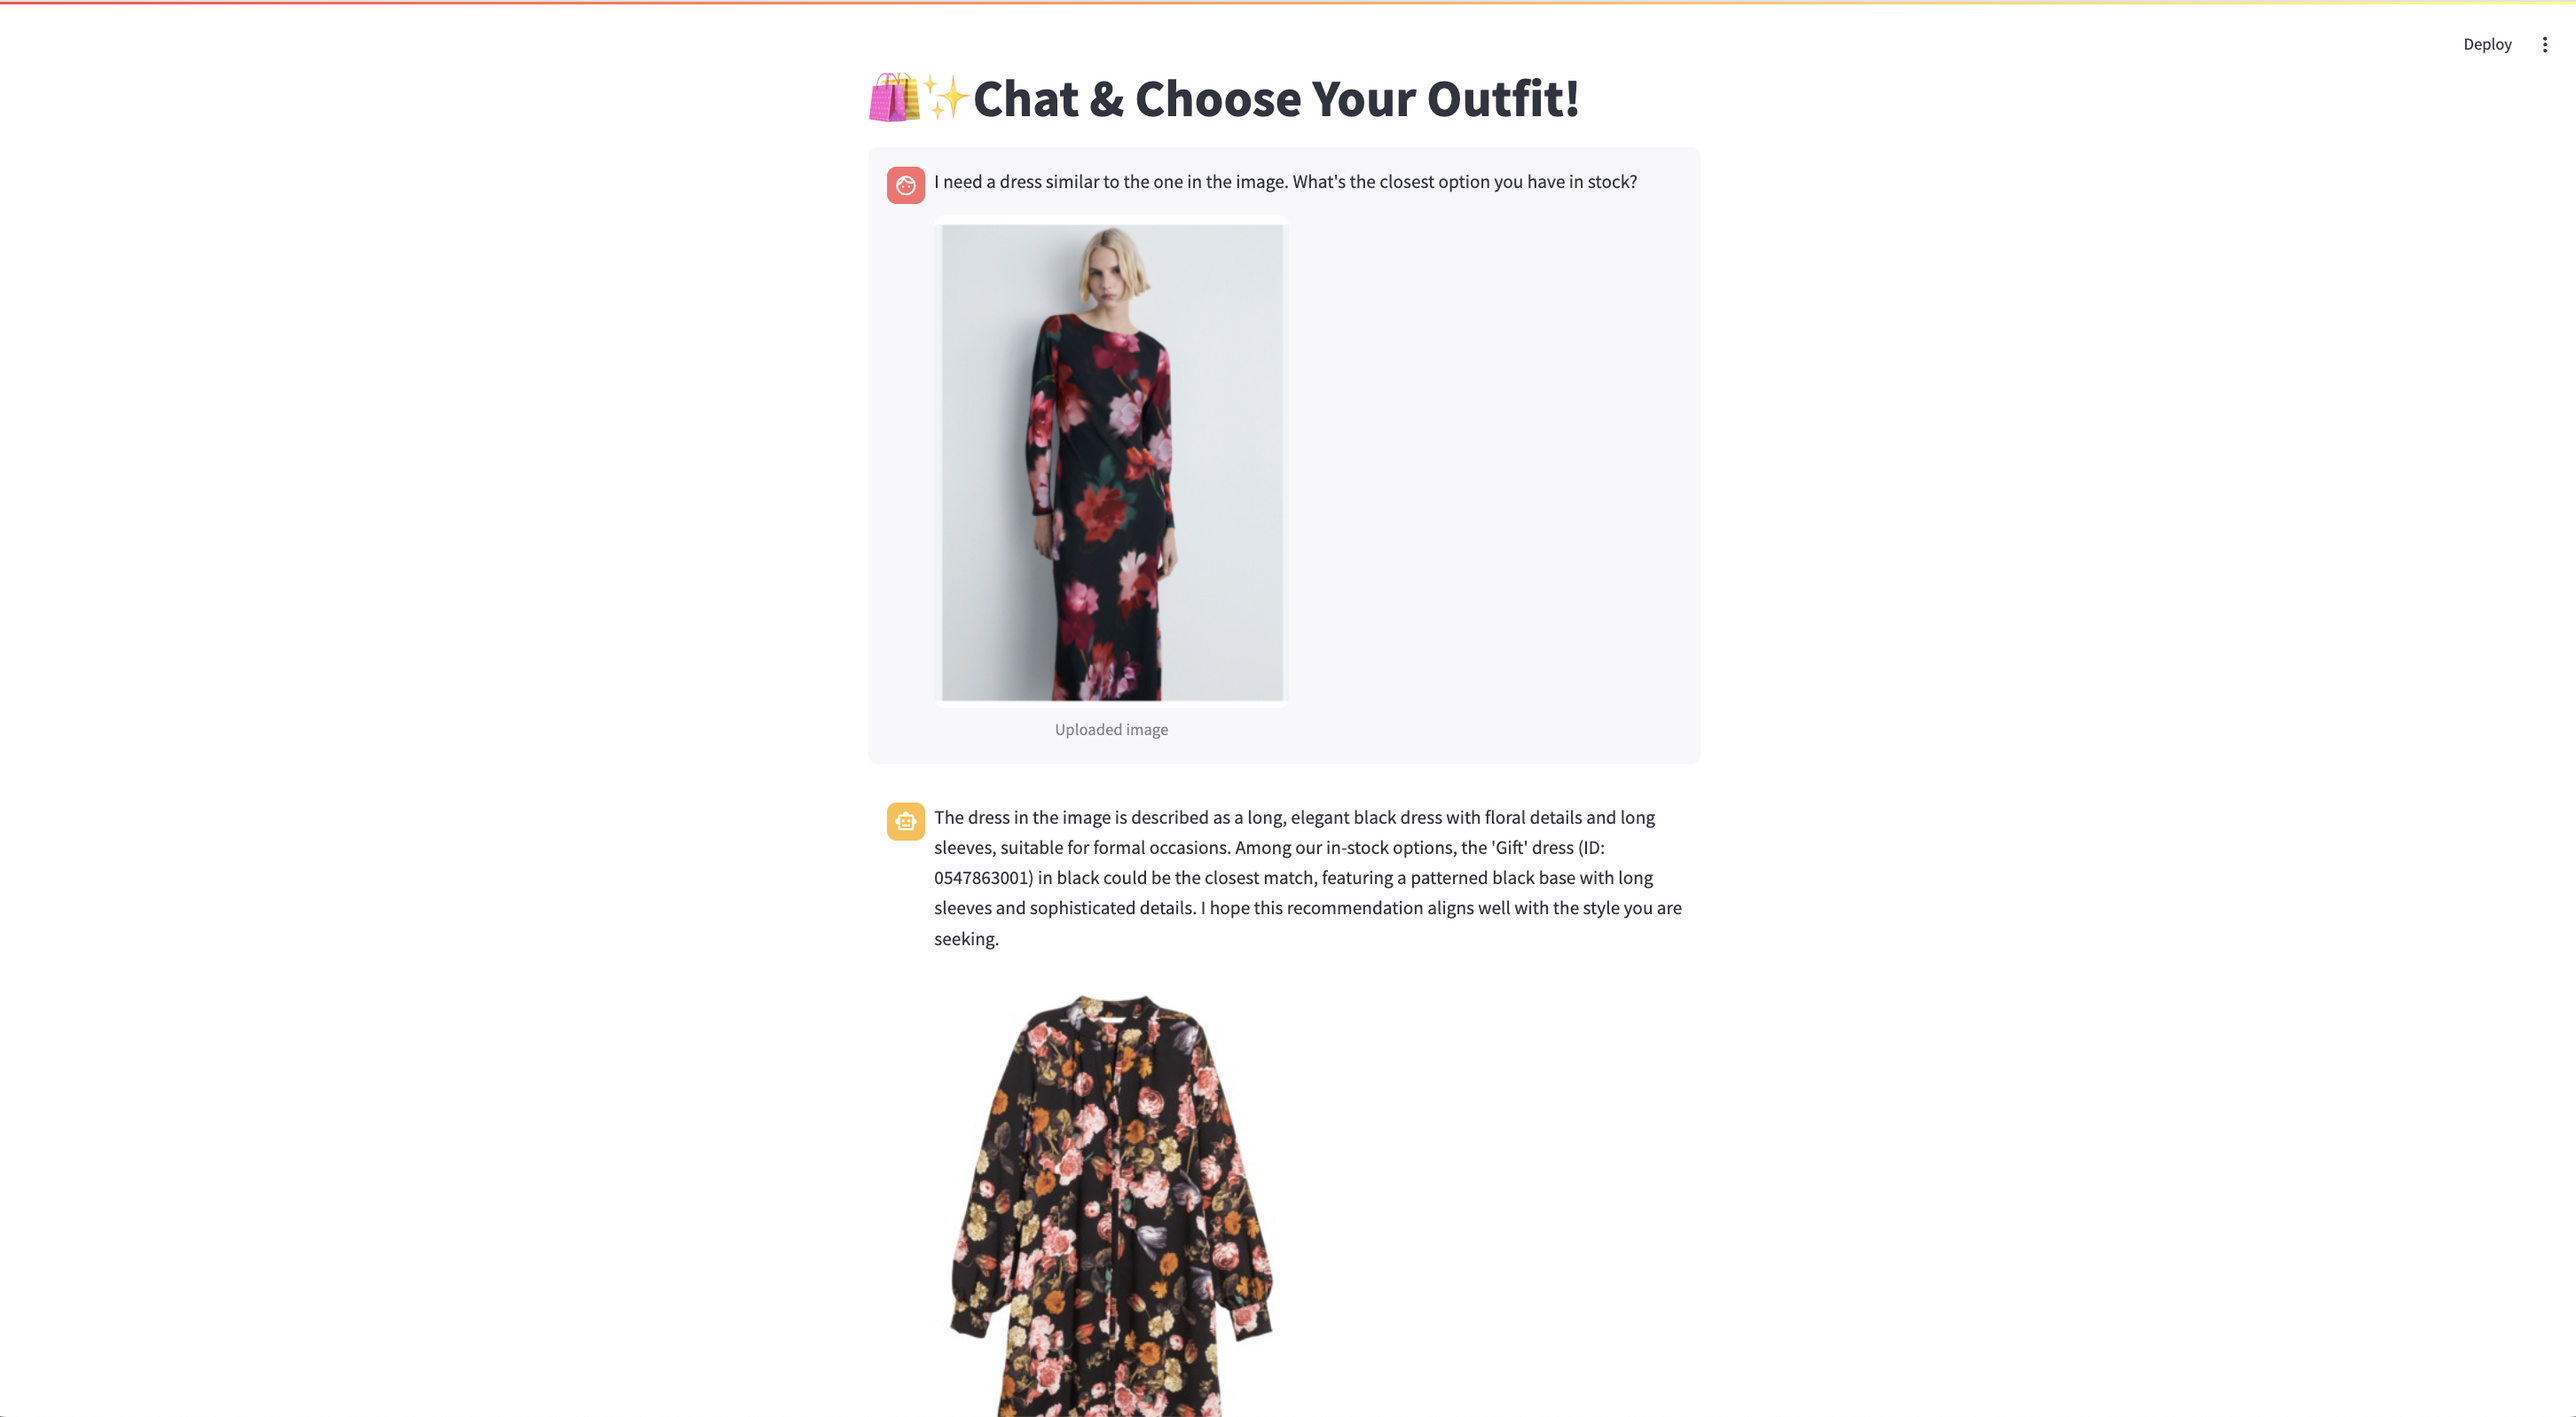
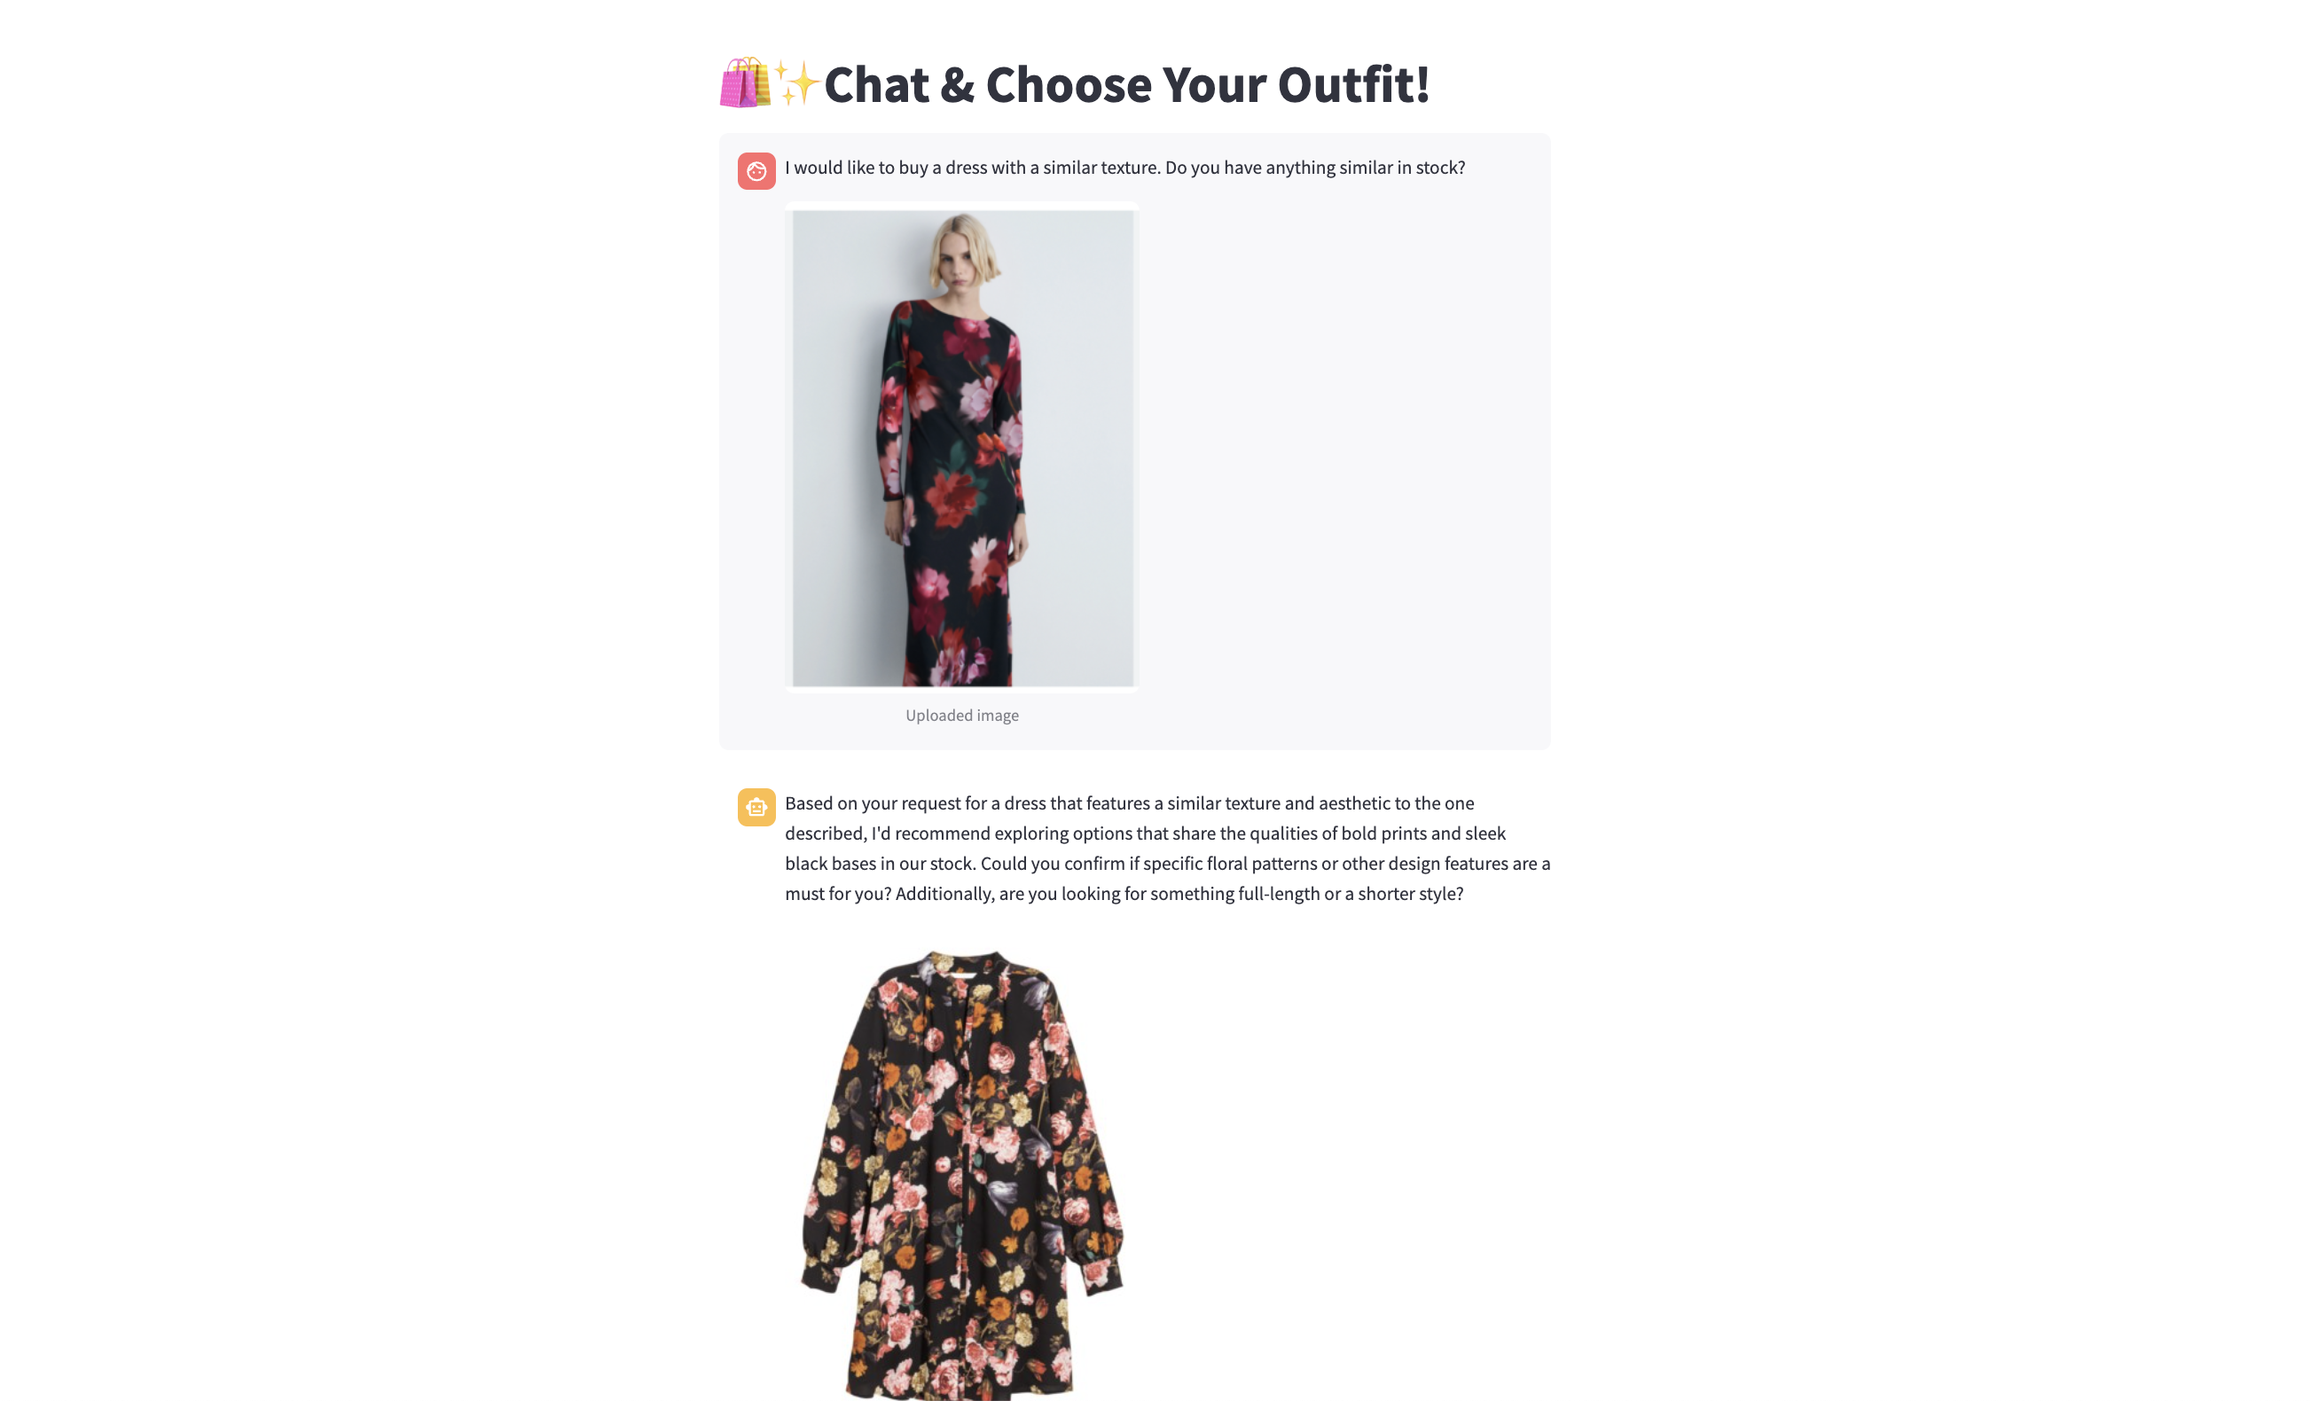
Update ReadME and requirements.txt + minor improvements

Changed region(s): [[0.0, 0.0, 1.0, 0.5272], [0.3419, 0.6823, 0.4973, 1.0], [0.3108, 0.5582, 0.6527, 0.6513]]

diff --git a/src/prompts.py b/src/prompts.py
@@ -3,7 +3,7 @@ You will be given descriptions of a number of clothing items that are available 
 Use this information to provide assistance with attire recommendations based on what's available in stock.
 
 The user request might include an image of a clothing item. In that case, the attached image description will be
-provided together with the user query. Please pretend you were shown the image itself.
+provided together with the user query. However, DO NOT mention the image description in your response.
 
 The output should include clarification questions (if the user's request is not clear or vague) to better understand 
 their needs (gender, occasion, item type) or relevant product recommendations based on the user's request.

diff --git a/src/qa_graph.py b/src/qa_graph.py
@@ -64,7 +64,7 @@ class QAGraph:
                 ],
             }
             image_description = chat.invoke([message])
-            decoded_message += f"\n\nAttached image description: {image_description.content}"
+            decoded_message += f"\n\nAI generated image description: {image_description.content}"
 
 
         return {"messages": HumanMessage(content=decoded_message)}

diff --git a/README.md b/README.md
@@ -124,12 +124,38 @@ pip install -r requirements.txt
 
 **Step 1: Build the Vector Store**
 ```
-python index.py
+cd src
+python indexing.py
 ```
 
 **Step 2: Run the Streamlit app**
 ```
-cd src
 streamlit run streamlit_app.py 
 ```
 
+## 📸 Example 
+**User:** Do you have the Howie shorts in stock in blue? 
+
+**Assistant:** We do not have the Howie Shorts specifically available in blue, but we do have them in other colors, 
+like Dark Turquoise. Would you like me to recommend alternative options in blue from different styles of shorts?
+<Howie Shorts in Dark Turquoise (Product ID: 0523404024)>
+
+<figure>
+  <p align="center">
+    <img src="data/attachments/example.png">
+  </p>
+  <p align="center">Figure 2: Example</p>
+</figure>
+
+## 📚 Resources
+- [Build a Retrieval Augmented Generation (RAG) App with LangGraph](https://python.langchain.com/docs/tutorials/rag/)
+- [Chroma Integration with LangChain](https://python.langchain.com/docs/integrations/vectorstores/chroma/)
+- [Multimodal Embeddings with OpenAI's CLIP](https://python.langchain.com/docs/integrations/text_embedding/open_clip/)
+- [Guardrails Cookbook](https://cookbook.openai.com/examples/how_to_use_guardrails)
+- [LangSmith Documentation](https://docs.smith.langchain.com/)
+- [Streamlit Documentation](https://docs.streamlit.io/)
+
+## 📈 Future Work
+- **Multimodal Embeddings**: Implement image embeddings using OpenAI's CLIP for better image-text matching.
+- **User Personalization**: Enhance recommendations with user-specific preferences and metadata (e.g. size, style).
+- **Advanced Evaluation**: Expand datasets and evaluation metrics for more comprehensive performance analysis.
